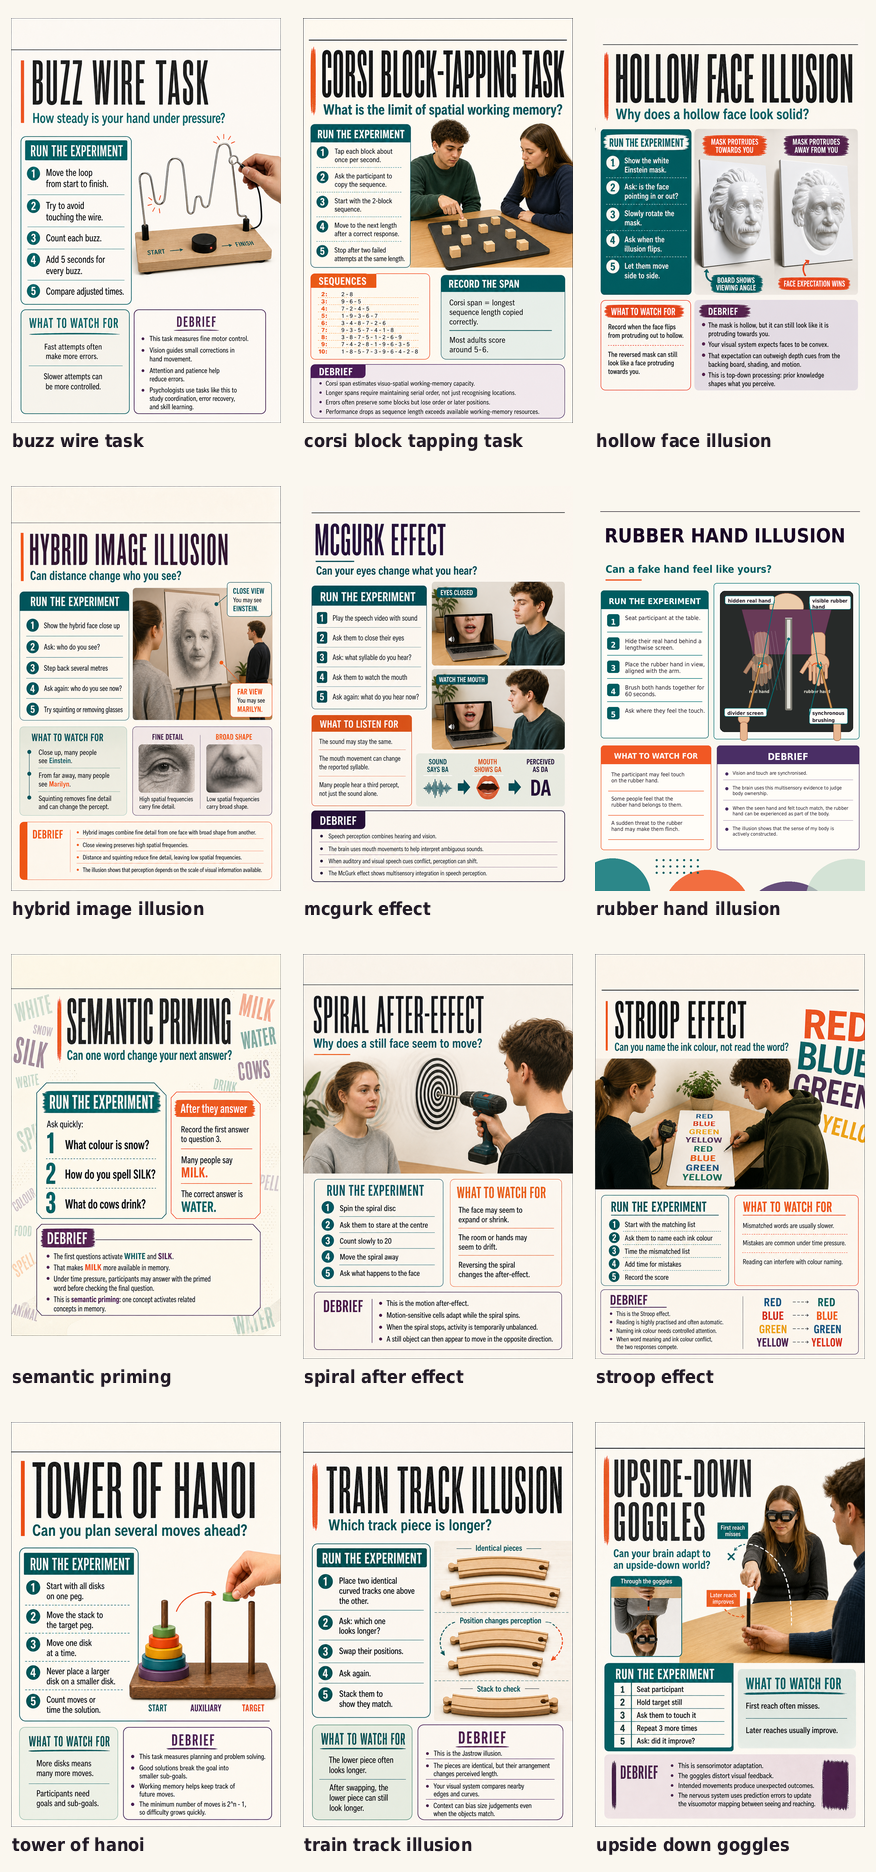
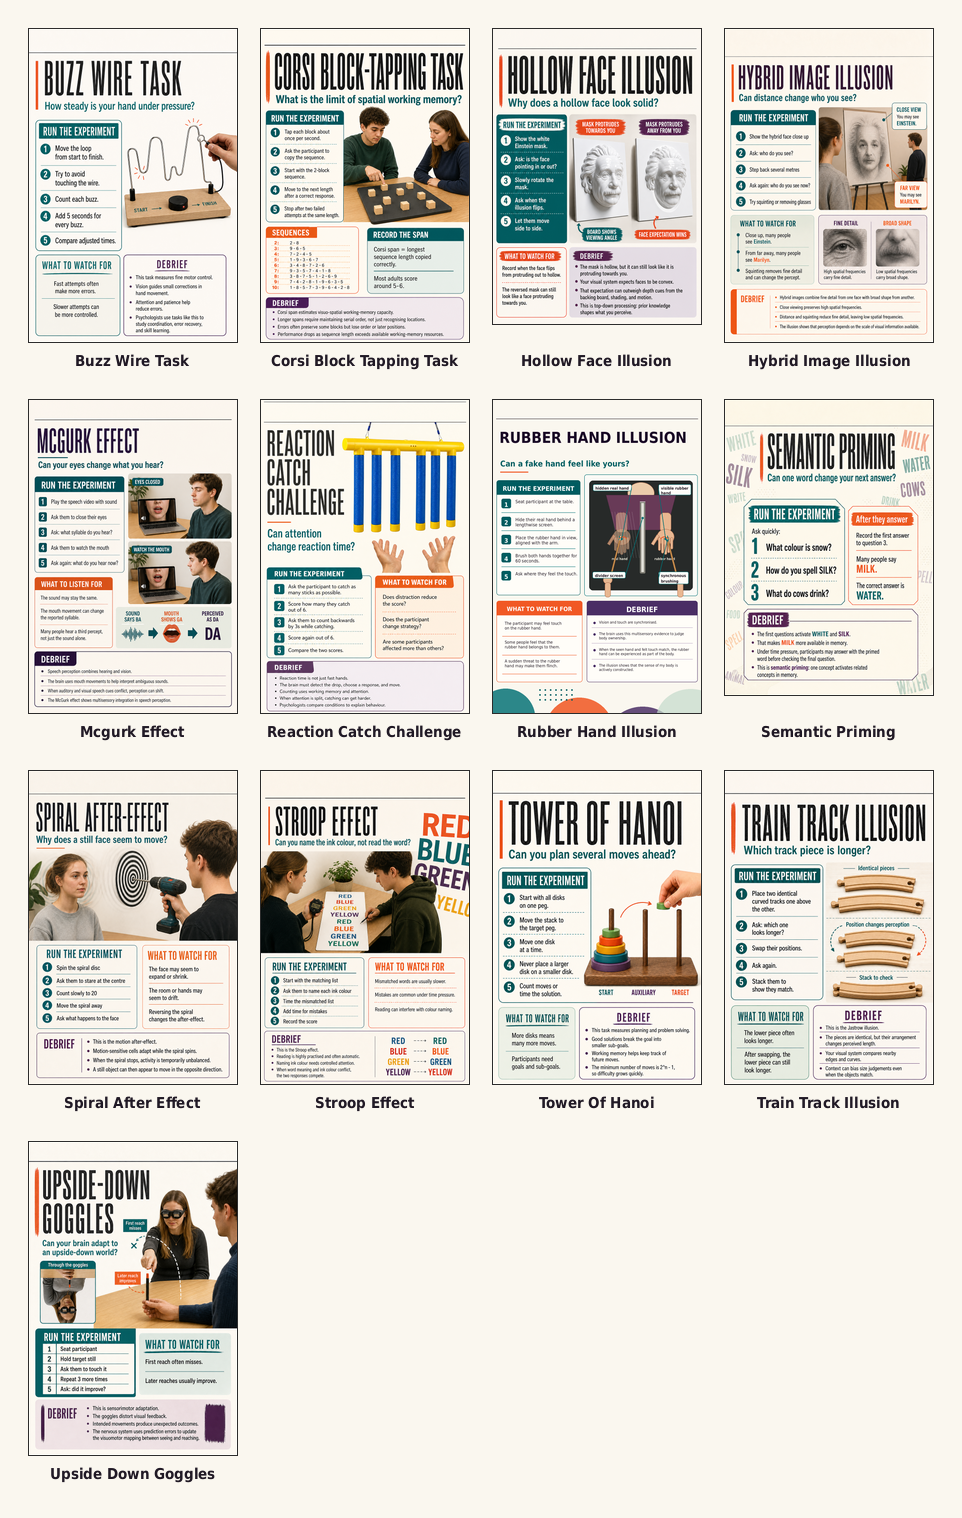
docs: add reaction catch poster to canonical set

diff --git a/scripts/build_contact_sheet.py b/scripts/build_contact_sheet.py
@@ -1,0 +1,88 @@
+#!/usr/bin/env python3
+"""Build contact sheets for the canonical poster set."""
+
+from __future__ import annotations
+
+from pathlib import Path
+
+from PIL import Image, ImageDraw, ImageFont
+
+
+REPO = Path(__file__).resolve().parents[1]
+IMAGES = REPO / "images"
+HEADERED = IMAGES / "headered"
+
+CANONICAL_POSTERS = [
+    "buzz-wire-task.png",
+    "corsi-block-tapping-task.png",
+    "hollow-face-illusion.png",
+    "hybrid-image-illusion.png",
+    "mcgurk-effect.png",
+    "reaction-catch-challenge.png",
+    "rubber-hand-illusion.png",
+    "semantic-priming.png",
+    "spiral-after-effect.png",
+    "stroop-effect.png",
+    "tower-of-hanoi.png",
+    "train-track-illusion.png",
+    "upside-down-goggles.png",
+]
+
+
+def font(size: int, *, bold: bool = False) -> ImageFont.FreeTypeFont:
+    path = "/usr/share/fonts/TTF/DejaVuSansCondensed-Bold.ttf" if bold else "/usr/share/fonts/TTF/DejaVuSansCondensed.ttf"
+    return ImageFont.truetype(path, size)
+
+
+def title_for(filename: str) -> str:
+    return filename.removesuffix(".png").replace("-", " ").title()
+
+
+def build_sheet(source_dir: Path, output: Path) -> None:
+    thumb_w = 210
+    thumb_h = 315
+    label_h = 34
+    gap = 22
+    margin = 28
+    cols = 4
+    rows = (len(CANONICAL_POSTERS) + cols - 1) // cols
+
+    sheet_w = margin * 2 + cols * thumb_w + (cols - 1) * gap
+    sheet_h = margin * 2 + rows * (thumb_h + label_h) + (rows - 1) * gap
+    sheet = Image.new("RGB", (sheet_w, sheet_h), (250, 247, 239))
+    draw = ImageDraw.Draw(sheet)
+    label_font = font(15, bold=True)
+
+    for index, filename in enumerate(CANONICAL_POSTERS):
+        path = source_dir / filename
+        if not path.exists():
+            raise FileNotFoundError(path)
+
+        row, col = divmod(index, cols)
+        x = margin + col * (thumb_w + gap)
+        y = margin + row * (thumb_h + label_h + gap)
+
+        poster = Image.open(path).convert("RGB")
+        poster.thumbnail((thumb_w, thumb_h), Image.Resampling.LANCZOS)
+        px = x + (thumb_w - poster.width) // 2
+        py = y
+        sheet.paste(poster, (px, py))
+        draw.rectangle((px, py, px + poster.width - 1, py + poster.height - 1), outline=(45, 45, 45), width=1)
+
+        label = title_for(filename)
+        box = draw.textbbox((0, 0), label, font=label_font)
+        tx = x + (thumb_w - (box[2] - box[0])) // 2
+        draw.text((tx, y + thumb_h + 9), label, font=label_font, fill=(31, 24, 36))
+
+    output.parent.mkdir(parents=True, exist_ok=True)
+    sheet.save(output, quality=95)
+    print(output)
+
+
+def main() -> None:
+    build_sheet(IMAGES, IMAGES / "contact-sheet.png")
+    build_sheet(HEADERED, HEADERED / "contact-sheet-headered.png")
+
+
+if __name__ == "__main__":
+    main()

diff --git a/images/README.md b/images/README.md
@@ -1,0 +1,23 @@
+# Poster Image Set
+
+Canonical poster PNGs live directly in this folder. Headered versions with the
+fixed Pop-Up Psychology and University of Hull logos live in `headered/`.
+
+The canonical set is:
+
+- `buzz-wire-task.png`
+- `corsi-block-tapping-task.png`
+- `hollow-face-illusion.png`
+- `hybrid-image-illusion.png`
+- `mcgurk-effect.png`
+- `reaction-catch-challenge.png`
+- `rubber-hand-illusion.png`
+- `semantic-priming.png`
+- `spiral-after-effect.png`
+- `stroop-effect.png`
+- `tower-of-hanoi.png`
+- `train-track-illusion.png`
+- `upside-down-goggles.png`
+
+`rubber-hand-illusion-facing.png` and `rubber-hand-illusion-topdown.png` are
+draft comparison variants, kept out of the canonical contact sheets.
